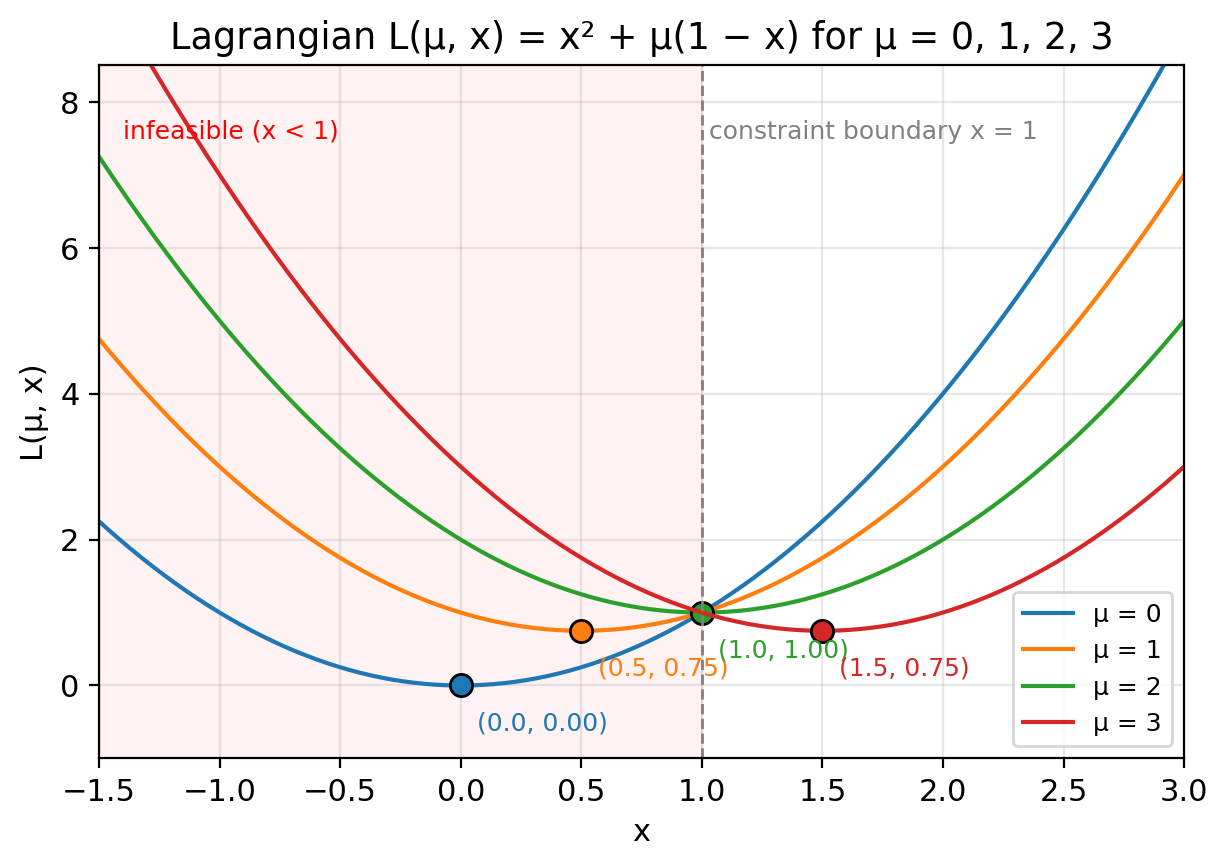
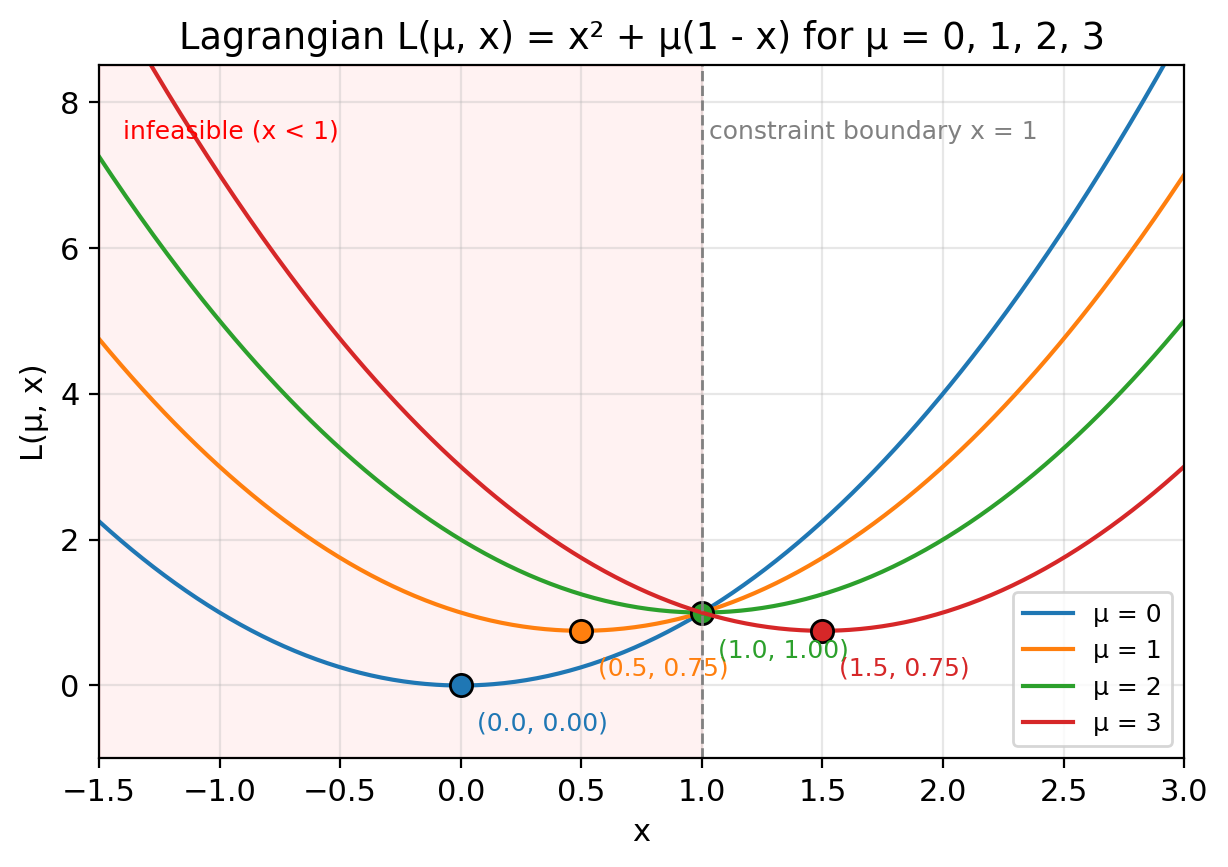
Fix formatting and labeling in Lagrangian plots

Changed region(s): [[0.1238, 0.0, 0.5879, 0.0623], [0.6189, 0.0, 0.9283, 0.0623]]

diff --git a/assignment3.py b/assignment3.py
@@ -47,14 +47,14 @@ ax.axvspan(-1.5, 1, color="red", alpha=0.05)
 ax.text(-1.4, 7.5, "infeasible (x < 1)", color="red", fontsize=9)
 ax.set_xlim(-1.5, 3); ax.set_ylim(-1, 8.5)
 ax.set_xlabel("x"); ax.set_ylabel("L(μ, x)")
-ax.set_title("Lagrangian L(μ, x) = x² + μ(1 − x) for μ = 0, 1, 2, 3")
+ax.set_title("Lagrangian L(μ, x) = x² + μ(1 - x) for μ = 0, 1, 2, 3")
 ax.legend(loc="lower right", fontsize=9)
 save(fig, "q1a")
 
 # ---------- Q1(b) ----------
 mu = np.linspace(0, 5, 400)
 fig, ax = plt.subplots(figsize=(7, 4))
-ax.plot(mu, d(mu), color="tab:blue", label="d(μ) = μ − μ²/4")
+ax.plot(mu, d(mu), color="tab:blue", label="d(μ) = μ - μ²/4")
 ax.axhline(1, color="tab:red", ls="--", lw=1, label="primal optimum p* = 1")
 ax.plot(2, 1, "o", color="tab:red", ms=9, mec="k")
 ax.annotate("maximum: μ* = 2, d* = 1", (2, 1), xytext=(2.4, 0.35),
@@ -110,7 +110,7 @@ axs[0].set_ylim(0, 2); axs[0].set_xlabel("μ"); axs[0].set_ylabel("L(μ, 1)")
 axs[0].set_title("L(μ, x*) vs μ  (x* = 1)")
 axs[0].legend()
 x = np.linspace(-1, 3, 300)
-axs[1].plot(x, (x - 1)**2 + 1, color="tab:green", lw=2, label="L(μ*, x) = (x−1)² + 1")
+axs[1].plot(x, (x - 1)**2 + 1, color="tab:green", lw=2, label="L(μ*, x) = (x-1)² + 1")
 axs[1].axhline(1, color="gray", ls="--", lw=1)
 axs[1].plot(1, 1, "o", color="tab:red", ms=9, mec="k", label="L(μ*, x*) = 1")
 axs[1].set_xlabel("x"); axs[1].set_ylabel("L(2, x)")
@@ -123,11 +123,11 @@ save(fig, "q2a")
 fig, ax = plt.subplots(figsize=(6.5, 3.6))
 x = np.linspace(-2, 2, 300)
 ax.plot(x, x**2, color="tab:blue", lw=2, label="f(x) = x²")
-ax.axvspan(-2, -1, color="red", alpha=0.12, label="infeasible (x < −1)")
+ax.axvspan(-2, -1, color="red", alpha=0.12, label="infeasible (x < -1)")
 ax.axvline(-1, color="gray", ls="--", lw=1)
 ax.plot(0, 0, "o", color="tab:red", ms=9, mec="k", label="x* = 0 (inside, not on boundary)")
 ax.set_xlabel("x"); ax.set_ylabel("f(x)")
-ax.set_title("Modified problem: min x²  s.t.  x ≥ −1")
+ax.set_title("Modified problem: min x²  s.t.  x ≥ -1")
 ax.legend(fontsize=9)
 save(fig, "q2c")
 
@@ -148,10 +148,10 @@ save(fig, "q3a")
 fig, ax = plt.subplots(figsize=(7.5, 4.5))
 mu = np.linspace(0, 5, 400)
 for xv, c in zip([0, 1, 2], cols):
-    ax.plot(mu, L(mu, xv), color=c, lw=1.5, label=f"x = {xv}:  L = {['μ', '1', '4 − μ'][xv]}")
+    ax.plot(mu, L(mu, xv), color=c, lw=1.5, label=f"x = {xv}:  L = {['μ', '1', '4 - μ'][xv]}")
 env = np.minimum.reduce([L(mu, 0), L(mu, 1), L(mu, 2)])
 ax.plot(mu, env, color="k", lw=3, alpha=0.6, label="lower envelope (min of 3 lines)")
-ax.plot(mu, d(mu), color="tab:purple", ls="--", lw=2, label="true d(μ) = μ − μ²/4")
+ax.plot(mu, d(mu), color="tab:purple", ls="--", lw=2, label="true d(μ) = μ - μ²/4")
 ax.set_ylim(-1.5, 4.5)
 ax.set_xlabel("μ"); ax.set_ylabel("L(μ, x)")
 ax.set_title("L(μ, x) as a function of μ for fixed x")
